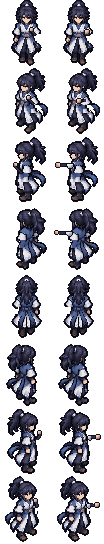
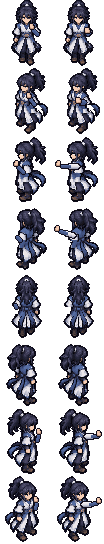
art: Ngự Kiếm — tay trái vẽ đúng kích thước theo mẫu S/SE (bàn tay ~7 điểm, tay áo dày ~5), suy ra 8 hướng
Claude-Session: https://claude.ai/code/session_014A94BHnyL4tu48AS77QbVM

diff --git a/tools/art/ngu_kiem_pose8.py b/tools/art/ngu_kiem_pose8.py
@@ -38,53 +38,84 @@ ERASE = {
     'se': [(32, 33, '02..'), (33, 33, '02..'), (34, 33, '02..'), (35, 33, '02..'), (36, 33, '02..'), (37, 33, '02..')],
 }
 
-FIST_R = ['.222.', '2bbY2', '2bYV2', '2YVS2']          # nắm tay nhìn từ bên phải (sáng bên trái)
-FIST_L = ['.222.', '2Ybb2', '2VYb2', '2SVY2']          # lật cho hướng nhìn sang trái
+# ---------------------------------------------------------------- vẽ cánh tay theo khung xương
+# Kích thước lấy từ ảnh mẫu (ref/ngu_kiem_s_ref.webp, ngu_kiem_se_ref.webp) thu về cỡ sprite:
+# bàn tay cao ~7 điểm, bắp tay áo trắng dày ~5 điểm, cẳng tay áo xanh dày ~4 điểm.
+import math
+
+HAND_R = ['.222..', '2bbY2.', '2bbY22', '2bbbY2', '2YbbV2', '2SVVS2', '.2222.']   # bàn tay dựng, nhìn từ phải
+HAND_L = [r[::-1] for r in HAND_R]
+HAND_F = ['.2222..', '2bbbY2.', '2bbbY22', '2bbbbY2', '2YbbbV2', '2SYVVS2', '.22222.']  # lòng bàn tay hướng người xem
+SLEEVE = ['e', 'd', 'c', 'Z', 'U']      # tay áo trắng: sáng (trên) → tối (dưới)
+FORE = ['N', 'M', 'K', 'H']             # cẳng tay áo xanh
+CUFF = ['9', 'B', '1']
 
 
-def at(x, y, rows):
-    return [(y + j, x, r) for j, r in enumerate(rows)]
+def _dist(px, py, a, b):
+    (ax, ay), (bx, by) = a, b
+    dx, dy = bx - ax, by - ay
+    t = max(0.0, min(1.0, ((px - ax) * dx + (py - ay) * dy) / (dx * dx + dy * dy or 1)))
+    cx, cy = ax + t * dx, ay + t * dy
+    return math.hypot(px - cx, py - cy), py - cy
 
 
-def diag(x, y, n, dx, s='21B92'):
-    """cẳng tay chéo: mỗi hàng dời dx điểm"""
-    return [(y + j, x + j * dx, s) for j in range(n)]
+def arm(segs, hand=None):
+    """segs: [(điểm đầu, điểm cuối, bán kính, bảng màu)]; hand: (x, y, mẫu) — trả về danh sách điểm vẽ"""
+    fill, edge = {}, set()
+    for a, b, r, cols in segs:
+        x0, x1 = int(min(a[0], b[0]) - r - 2), int(max(a[0], b[0]) + r + 2)
+        y0, y1 = int(min(a[1], b[1]) - r - 2), int(max(a[1], b[1]) + r + 2)
+        for y in range(y0, y1 + 1):
+            for x in range(x0, x1 + 1):
+                d, off = _dist(x + 0.5, y + 0.5, (a[0] + 0.5, a[1] + 0.5), (b[0] + 0.5, b[1] + 0.5))
+                if d <= r:
+                    k = (off + r) / (2 * r)                 # 0 = mép trên (sáng) … 1 = mép dưới (tối)
+                    fill[(x, y)] = cols[min(len(cols) - 1, int(k * len(cols)))]
+                elif d <= r + 1:
+                    edge.add((x, y))
+    items = [(y, x, '2') for (x, y) in edge if (x, y) not in fill]
+    items += [(y, x, c) for (x, y), c in fill.items()]
+    if hand:
+        hx, hy, rows = hand
+        items += [(hy + j, hx, r.replace('.', ' ')) for j, r in enumerate(rows)]
+    return items
+
+
+def bent(elbow, wrist, hand):
+    """cánh tay gập: bắp tay áo (phồng) giữ ở vai, cẳng tay từ khuỷu lên cổ tay"""
+    return arm([(elbow, wrist, 1.6, FORE)], hand)
+
+
+def straight(shoulder, elbow, wrist, hand):
+    """cánh tay duỗi thẳng: bắp tay áo trắng → cẳng tay áo xanh → bàn tay"""
+    return arm([(shoulder, elbow, 2.2, SLEEVE), (elbow, wrist, 1.6, FORE)], hand)
 
 
 POSE = {
-    # ---- S: tay trái bên phải người xem; bắp tay áo (phồng) giữ ở vai
-    ('s', 1): at(29, 27, FIST_R) + diag(29, 31, 4, 1) + [(35, 33, '222')],
-    ('s', 2): at(32, 29, ['.2222.', '2bbbY2', '2bbYV2', '2YYVS2', '2VSS82']) + [(34, 31, '21B99B12'), (35, 32, '222222')],
+    # ---- S: tay trái bên phải người xem (theo mẫu: bàn tay dựng trước ngực, khuỷu ra ngoài)
+    ('s', 1): bent((37, 34), (33, 30), (29, 23, HAND_R)),
+    ('s', 2): arm([((36, 33), (35, 33), 2.2, FORE)], (32, 27, HAND_F)),
     # ---- SW: tay trái gần, bên phải người xem
-    ('sw', 1): at(26, 27, FIST_R) + diag(26, 31, 5, 1) + [(36, 31, '222')],
-    ('sw', 2): [(31, 30, '21B9'), (32, 30, '1B99'), (33, 30, '21B9')]
-               + at(24, 30, ['.2222.', '2bbbY2', '2bbYV2', '2YYVS2', '2VSS82', '.2222.']),
+    ('sw', 1): bent((34, 36), (30, 31), (26, 24, HAND_R)),
+    ('sw', 2): arm([((32, 34), (29, 34), 2.0, FORE)], (23, 29, HAND_F)),
     # ---- W: nhìn sang trái, tay trái gần
-    ('w', 1): at(13, 26, FIST_L) + diag(13, 30, 7, 1, '29B12') + [(37, 20, '222')],
-    ('w', 2): [(27, 9, '2222222222222'), (28, 8, '2B99991deeedc2'), (29, 8, '2B99991ddccZU2'),
-               (30, 8, '22222222cZZUU2'), (31, 15, '2ZUUU2'), (32, 16, '2222')]
-              + at(3, 26, ['.2222.', '2Ybbb2', '2VYbb2', '2VVYb2', '2SVVY2', '.2222.']),
-    # ---- NW: lưng chéo, tay trái gần bên trái người xem
-    ('nw', 1): [(35, 16, '2192'), (36, 16, '2B92'), (37, 17, '22')],
-    ('nw', 2): [(27, 7, '22222222222222'), (28, 6, '2B999991dddcZZ2'), (29, 6, '2B999991dccZZU2'),
-                (30, 6, '222222222ZZUUU2'), (31, 15, '2UUU2'), (32, 16, '222')]
-               + at(2, 26, ['.222.', '2Ybb2', '2VYb2', '2SVY2', '.222.']),
+    ('w', 1): bent((23, 36), (18, 31), (13, 24, HAND_L)),
+    ('w', 2): straight((25, 30), (17, 30), (10, 30), (3, 24, HAND_L)),
+    # ---- NW: lưng chéo — gập tay thì cẳng tay khuất trước ngực, chỉ thấy khuỷu; duỗi thì cả cánh tay lộ ra
+    ('nw', 1): arm([((20, 36), (17, 33), 1.6, FORE)]),
+    ('nw', 2): straight((21, 31), (14, 29), (8, 27), (2, 21, HAND_L)),
     # ---- N: lưng — tay đưa ra trước bị thân che, chỉ thấy khuỷu khi gập tay
-    ('n', 1): [(35, 14, '2192'), (36, 15, '222')],
+    ('n', 1): arm([((16, 35), (15, 33), 1.6, FORE)]),
     ('n', 2): [],
     # ---- NE: tay trái khuất hẳn sau thân và đầu ở cả hai tư thế → giữ nguyên khung gốc
     ('ne', 1): [],
     ('ne', 2): [],
-    # ---- E: tay trái phía xa — chỉ phần ló ra trước ngực
-    ('e', 1): at(37, 22, FIST_R) + diag(37, 26, 2, 0) + diag(36, 28, 2, 0) + [(30, 35, '21B92'), (31, 35, '2B92')],
-    ('e', 2): [(27, 36, '2222222'), (28, 35, '2dcZB999'), (29, 35, '2cZUB999'), (30, 35, '2ZUU2222'),
-               (31, 36, '2UU2'), (32, 37, '22')]
-              + at(43, 26, ['.2222.', '2bbbY2', '2bbYV2', '2YYVS2', '2VSS82', '.2222.']),
-    # ---- SE: tay trái phía xa, bên phải người xem
-    ('se', 1): at(33, 22, FIST_R) + diag(33, 26, 2, 0) + diag(34, 28, 2, 0) + [(30, 35, '2B92'), (31, 35, '222')],
-    ('se', 2): [(27, 35, '222222'), (28, 34, '2dcZB999'), (29, 34, '2cZUB999'), (30, 34, '2ZUU2222'),
-                (31, 35, '2UU2'), (32, 36, '22')]
-               + at(42, 26, ['.2222.', '2bbbY2', '2bbYV2', '2YYVS2', '2VSS82', '.2222.']),
+    # ---- E: tay trái phía xa — phần ló ra trước ngực
+    ('e', 1): bent((37, 32), (38, 28), (36, 20, HAND_R)),
+    ('e', 2): straight((34, 28), (40, 28), (45, 28), (44, 22, HAND_R)),
+    # ---- SE: tay trái phía xa, bên phải người xem (theo mẫu)
+    ('se', 1): bent((35, 32), (36, 28), (33, 20, HAND_R)),
+    ('se', 2): straight((31, 28), (38, 28), (44, 27), (44, 21, HAND_R)),
 }
 
 
